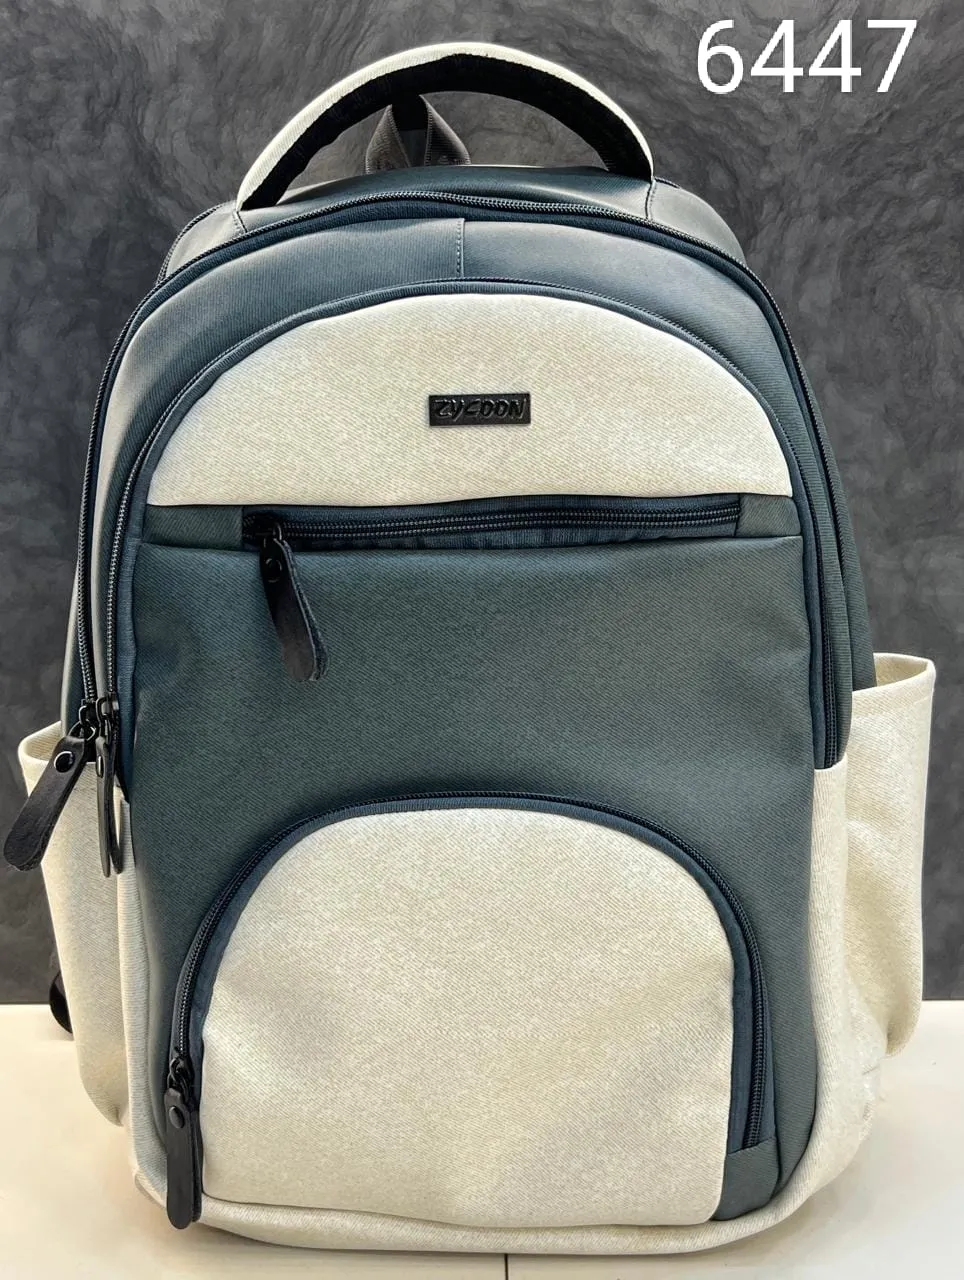
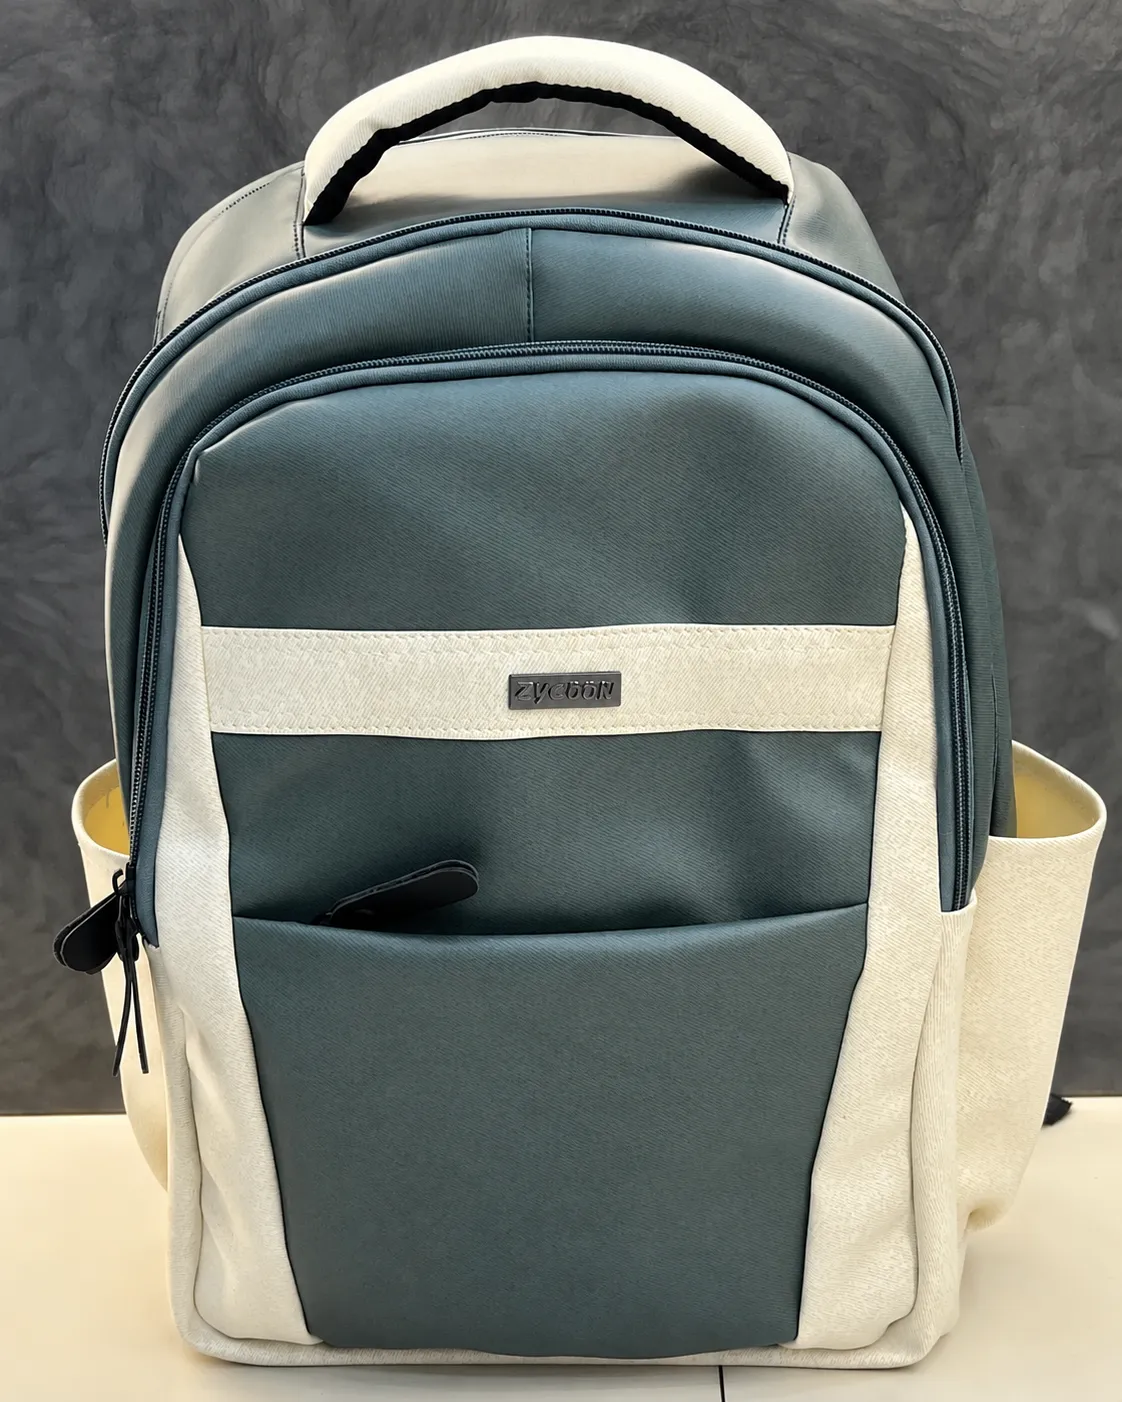
Replace product images with b2b photos and update products.js

diff --git a/src/data/products.js b/src/data/products.js
@@ -24,7 +24,7 @@ export const products = [
       logo_branding: true,
       custom_packaging: true
     },
-    images: ['#4A1420', '#A9683B', '#241812'], // Oxblood, Cognac, Charcoal colors represent the bags
+    images: ['/product-images/product-1.webp', '/product-images/product-2.webp'],
     lead_time_days: 35,
     is_featured: true,
     created_at: '2026-01-15T08:00:00Z'
@@ -54,7 +54,7 @@ export const products = [
       logo_branding: true,
       custom_packaging: true
     },
-    images: ['#A9683B', '#4A1420', '#6B5A4E'], // Cognac, Oxblood, Taupe
+    images: ['/product-images/product-3.webp', '/product-images/product-4.webp'],
     lead_time_days: 40,
     is_featured: true,
     created_at: '2026-02-10T08:00:00Z'
@@ -84,7 +84,7 @@ export const products = [
       logo_branding: true,
       custom_packaging: true
     },
-    images: ['#241812', '#A9683B', '#2E0D14'], // Charcoal, Cognac, Dark Burgundy
+    images: ['/product-images/product-5.webp', '/product-images/product-6.webp'],
     lead_time_days: 30,
     is_featured: true,
     created_at: '2026-03-01T08:00:00Z'
@@ -114,7 +114,7 @@ export const products = [
       logo_branding: true,
       custom_packaging: true
     },
-    images: ['#241812', '#A9683B', '#6B5A4E'], // Charcoal, Cognac, Taupe
+    images: ['/product-images/product-7.webp', '/product-images/product-8.webp'],
     lead_time_days: 45,
     is_featured: false,
     created_at: '2026-03-12T08:00:00Z'
@@ -144,7 +144,7 @@ export const products = [
       logo_branding: true,
       custom_packaging: true
     },
-    images: ['#6B5A4E', '#A9683B', '#4A1420'], // Taupe, Cognac, Oxblood
+    images: ['/product-images/product-9.webp', '/product-images/product-10.webp'],
     lead_time_days: 45,
     is_featured: true,
     created_at: '2026-03-18T08:00:00Z'
@@ -174,7 +174,7 @@ export const products = [
       logo_branding: true,
       custom_packaging: true
     },
-    images: ['#241812', '#A9683B', '#2E0D14'], // Charcoal, Cognac, Primary Dark
+    images: ['/product-images/product-1.webp', '/product-images/product-2.webp'],
     lead_time_days: 25,
     is_featured: false,
     created_at: '2026-04-02T08:00:00Z'
